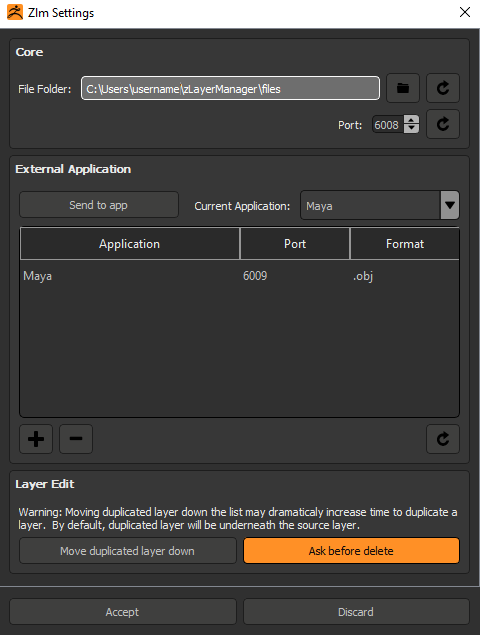
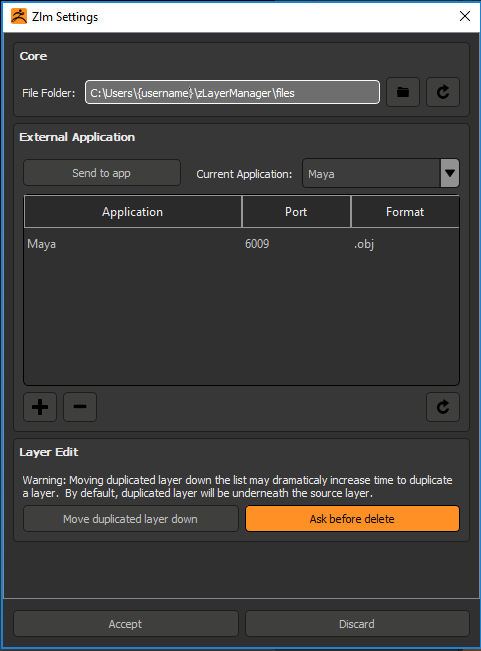
layer display doc

diff --git a/docs/searchindex.js b/docs/searchindex.js
@@ -1,1 +1,1 @@
-Search.setIndex({docnames:["application/maya","index","installation","userguide/export","userguide/import","userguide/index","userguide/layerdisplay","userguide/preset","userguide/settings"],envversion:{"sphinx.domains.c":1,"sphinx.domains.changeset":1,"sphinx.domains.citation":1,"sphinx.domains.cpp":1,"sphinx.domains.javascript":1,"sphinx.domains.math":2,"sphinx.domains.python":1,"sphinx.domains.rst":1,"sphinx.domains.std":1,sphinx:56},filenames:["application\\maya.rst","index.rst","installation.rst","userguide\\export.rst","userguide\\import.rst","userguide\\index.rst","userguide\\layerdisplay.rst","userguide\\preset.rst","userguide\\settings.rst"],objects:{},objnames:{},objtypes:{},terms:{"2018zstartupzplugs64":[],"default":[7,8],"export":[0,1,2,5,8],"import":[0,1,2,5,7,8],"new":[2,7,8],The:[0,5,8],There:7,Will:8,aapplic:[],abl:5,accept:8,access:5,action:2,activ:[1,7],actual:7,add:[0,7,8],addit:7,advanc:2,aid:1,all:[1,7,8],alreadi:2,also:1,although:1,app:[0,8],append:0,appli:7,applic:[0,1,5],ask:8,automatical:8,avail:[1,2,7],base:8,basic:1,befor:[2,8],bellow:0,between:[0,2,8],blendshap:[1,2],blenshap:7,bottom:[2,5],bridg:[1,2,8],brows:2,build:2,button:[5,7],can:[0,1,2,7],chang:8,choic:2,click:2,close:2,code:[0,1],com:1,command:[0,8],commun:[0,8],configur:[7,8],construct:[],content:2,copi:0,core:[1,5],corner:5,correctli:7,could:1,count:8,creat:[0,7],current:[2,7,8],custom:[],custom_:[],customapplication_:[],defin:[],deform:7,delet:[2,8],develop:2,differ:5,directori:0,displai:[1,5],document:0,documentsmayascript:[],doing:1,donat:1,down:[7,8],download:1,dozen:1,dramaticali:[],drastic:8,drop:7,duplic:[1,8],easier:1,edit:[0,1,5,7],element:5,email:1,encourag:1,etc:1,execut:0,exist:0,extern:[1,5],extract:2,facial:[1,7],facilit:2,faster:[],favorit:2,file:[0,2,7,8],filespixologiczbrush:[],find:0,first:7,folder:[0,2,7,8],follow:2,format:8,free:1,from:[0,2,5,8],gear:5,getenv:0,github:[1,2],gmail:1,going:5,guid:1,has:8,have:[0,2,7],here:[0,2],how:2,howev:2,increas:8,inform:5,instal:[0,1],interfac:1,issu:1,keep:1,lastli:7,later:7,latest:2,layer:[1,5,7],like:2,list:[7,8],load:2,locat:[0,7],mai:8,make:[1,2],manag:[],mark:5,maya:[1,2],maya_app_dir:0,mel:0,menu:2,merg:1,mesh:[0,2],might:0,more:2,most:7,move:8,multipl:[1,7],must:2,name:[7,8],navig:2,need:[0,7],note:2,now:[0,2],off:7,onc:2,one:[0,5],onli:[2,7],open:[0,1,2,5],open_port:0,oper:[1,8],other:[1,2,7,8],otherwis:[2,8],over:1,overrid:7,own:2,packag:2,page:[1,5],palett:2,path:0,pixolog:[0,2],plug:7,plugin:2,port:[0,8],posit:8,possibl:2,prefer:8,preset:[1,5],previou:[],previous:2,probabl:7,process:2,program:[0,2],project:[1,2],prompt:8,put:[0,7],question:5,quickli:2,quot:0,read:7,readi:2,realli:8,receiv:[0,8],recod:7,record:7,rememb:7,remov:[7,8],renam:1,replac:0,reset:8,restart:0,result:2,retriev:0,right:[2,5],row:7,rst_:[],same:[7,8],save:[7,8],scene:1,script:0,sculpt:[1,7],search:2,second:7,see:2,select:[2,8],send:[1,8],serv:1,set:[1,5,7],settign:[],setup:0,share:7,should:2,simpl:1,softwar:[2,8],someth:2,sourc:[1,2],specif:7,standalon:[1,2],startup:7,state:1,step:2,subtool:2,support:[1,2],sure:2,sys:0,test:[],them:2,thi:[0,1,5,7,8],time:[7,8],tool:[1,5,8],top:5,track:1,two:[5,7],txt:2,type:7,under:[0,7],until:8,updat:2,use:[0,1,2,8],used:[1,2,7,8],useful:7,user:[0,1,2,7,8],usernam:[0,7],usersetup:0,usual:0,valu:8,version:2,wai:[],want:[1,7,8],warn:[],warningthi:8,welcom:1,when:[7,8],where:[7,8],which:7,window:2,without:8,work:1,you:[0,1,2,5,7],your:[0,1,2],zbrush:[0,1,2,7,8],zip:2,zlayer:[],zlayermanag:[0,2,7],zlayermanagerpreset:[],zlm:[0,1,2,8],zlm_maya_app:0,zlmdata:[0,2,7],zlmdataappmaya:[],zlmdatapreset:[],zplugin:2,zplugs64:[0,2],zsc:2,zscript:2,zstartup:[0,2],zstartupzplugs64:[]},titles:["Maya","ZLayerManager","Installation","Export","Import","User Guide","Layer display","Preset","Settings"],titleterms:{"export":3,"import":4,aapplic:[],app:[],applic:[2,8],bug:1,comment:1,content:1,core:8,custom:[],defin:[],displai:6,download:2,edit:8,extern:8,guid:5,instal:2,layer:[6,8],maya:0,preset:7,report:1,set:8,test:[],user:5,zlayermanag:1}})
+Search.setIndex({docnames:["application/maya","index","installation","userguide/export","userguide/import","userguide/index","userguide/layerdisplay","userguide/preset","userguide/settings"],envversion:{"sphinx.domains.c":1,"sphinx.domains.changeset":1,"sphinx.domains.citation":1,"sphinx.domains.cpp":1,"sphinx.domains.javascript":1,"sphinx.domains.math":2,"sphinx.domains.python":1,"sphinx.domains.rst":1,"sphinx.domains.std":1,sphinx:56},filenames:["application\\maya.rst","index.rst","installation.rst","userguide\\export.rst","userguide\\import.rst","userguide\\index.rst","userguide\\layerdisplay.rst","userguide\\preset.rst","userguide\\settings.rst"],objects:{},objnames:{},objtypes:{},terms:{"2018zstartupzplugs64":[],"default":[7,8],"export":[0,1,2,5,8],"import":[0,1,2,5,7,8],"new":[2,7,8],The:[0,5,6,8],There:7,These:8,Will:8,aapplic:[],abl:[5,8],accept:[6,8],access:5,action:2,activ:[1,6,7],actual:7,add:[0,7,8],addit:[6,7],advanc:2,aid:1,all:[1,6,7,8],alreadi:2,also:1,although:1,ani:6,app:[0,8],append:0,appli:7,applic:[0,1,5],ask:8,automatical:8,avaibl:6,avail:[1,2,7],base:8,basic:1,befor:[2,8],bellow:0,between:[0,2,8],blendshap:[1,2],blenshap:7,bottom:[2,5],bridg:[1,2,8],brows:2,build:2,button:[5,6,7],can:[0,1,2,6,7],chang:[6,8],charact:6,choic:2,clear:6,click:[2,6],close:2,code:[0,1],com:1,command:[0,8],commun:[0,8],configur:[7,8],construct:[],content:2,context:[1,5],copi:0,core:[1,5],corner:5,correctli:7,could:1,count:8,creat:[0,7],ctrl:6,current:[2,6,7,8],cursor:6,custom:[],custom_:[],customapplication_:[],deactiv:6,defin:[],deform:7,delet:[2,8],develop:2,dialog:6,differ:5,directori:0,displai:[1,5],document:0,documentsmayascript:[],doing:1,donat:1,down:[6,7,8],download:1,dozen:1,drag:6,dramaticali:[],drastic:8,drop:7,duplic:[1,6,8],easier:1,edit:[0,1,5,7],element:5,email:1,encourag:1,etc:1,execut:0,exist:0,explanatori:6,extern:[1,5],extract:2,eye:6,facial:[1,7],facilit:2,fanci:6,faster:[],favorit:2,file:[0,2,6,7,8],filespixologiczbrush:[],filter:6,find:0,first:7,fix:6,folder:[0,2,7,8],follow:2,format:8,free:1,from:[0,2,5,8],funnel:6,gear:5,getenv:0,github:[1,2],gmail:1,going:5,guid:1,has:[6,8],have:[0,2,6,7],here:[0,2],hot:[1,5],how:2,howev:2,increas:8,inform:5,instal:[0,1],intens:6,interfac:1,invers:6,issu:1,keep:1,kei:[1,5],lastli:7,later:7,latest:2,layer:[1,5,7],like:2,list:[7,8],load:2,locat:[0,7],mai:8,make:[1,2],manag:[],mark:5,maximum:6,maya:[1,2],maya_app_dir:0,mel:0,menu:[1,2,5],merg:1,mesh:[0,2],might:[0,6],mode:6,more:[2,6],most:[6,7],mous:6,move:8,multipl:[1,6,7],must:[2,8],name:[6,8],navig:2,need:[0,7],note:[],now:[0,2],off:[],onc:2,one:[0,5,6],onli:[2,6,7],open:[0,1,2,5,6],open_port:0,oper:[1,6,8],option:6,other:[1,2,6,7,8],otherwis:[2,6,8],over:1,overrid:7,own:2,packag:2,page:[1,5],palett:2,path:0,pixolog:[0,2],place:6,plug:7,plugin:2,port:[0,8],posibl:6,posit:8,possibl:2,prefer:8,preset:[1,5],pretti:6,previou:[],previous:2,probabl:7,process:2,program:[0,2],project:[1,2],prompt:8,put:[0,7],question:5,quickli:2,quot:0,read:7,readi:2,realli:8,rec:6,receiv:[0,8],recod:7,record:[6,7],rememb:7,remov:[6,7,8],renam:[1,5],replac:0,reset:8,rest:6,restart:0,result:[2,6],retriev:0,right:[2,5,6],row:7,rst_:[],same:[6,7,8],save:[7,8],scene:1,script:0,sculpt:[1,7],search:2,second:7,see:2,select:[2,6,8],self:6,send:[1,8],serv:1,set:[1,5,7],settign:[],setup:0,share:7,should:2,show:7,simpl:1,slider:6,softwar:[2,6,8],someth:2,sourc:[1,2],specif:7,standalon:[1,2],startup:7,state:1,step:2,strip:6,subtool:2,support:[1,2],sure:2,sys:0,take:6,test:[],them:2,thi:[0,1,5,6,7,8],time:[6,7,8],tool:[1,5,8],top:5,track:1,two:[5,6,7],txt:2,type:7,under:[0,6,7],until:8,updat:2,use:[0,1,2,8],used:[1,2,6,7,8],useful:7,user:[0,1,2,6,7,8],usernam:[0,7],usersetup:0,usual:0,valu:8,version:2,view:6,wai:[],want:[1,7,8],warn:[],warninglay:6,warningthi:8,warningy:2,welcom:1,when:[6,7,8],where:[6,7,8],which:7,window:[2,6],without:8,work:1,you:[0,1,2,5,7],your:[0,1,2],zbrush:[0,1,2,6,7,8],zip:2,zlayer:[],zlayermanag:[0,2,7],zlayermanagerpreset:[],zlm:[0,1,2,8],zlm_maya_app:0,zlmdata:[0,2,7],zlmdataappmaya:[],zlmdatapreset:[],zplugin:2,zplugs64:[0,2],zsc:2,zscript:2,zstartup:[0,2],zstartupzplugs64:[]},titles:["Maya","ZLayerManager","Installation","Export","Import","User Guide","Layer display","Preset","Settings"],titleterms:{"export":3,"import":4,aapplic:[],app:[],applic:[2,8],bug:1,comment:1,content:1,context:6,core:8,custom:[],defin:[],displai:6,download:2,edit:[6,8],extern:8,guid:5,hot:6,instal:2,kei:6,layer:[6,8],maya:0,menu:6,preset:7,renam:6,report:1,set:8,test:[],user:5,zlayermanag:1}})

diff --git a/docs/userguide/settings.html b/docs/userguide/settings.html
@@ -98,7 +98,12 @@
 </ul>
 </li>
 <li class="toctree-l2"><a class="reference internal" href="preset.html">Preset</a></li>
-<li class="toctree-l2"><a class="reference internal" href="layerdisplay.html">Layer display</a></li>
+<li class="toctree-l2"><a class="reference internal" href="layerdisplay.html">Layer display</a><ul>
+<li class="toctree-l3"><a class="reference internal" href="layerdisplay.html#edition-context-menu">Edition context menu</a></li>
+<li class="toctree-l3"><a class="reference internal" href="layerdisplay.html#rename">Rename</a></li>
+<li class="toctree-l3"><a class="reference internal" href="layerdisplay.html#hot-keys">Hot Keys</a></li>
+</ul>
+</li>
 <li class="toctree-l2"><a class="reference internal" href="export.html">Export</a></li>
 <li class="toctree-l2"><a class="reference internal" href="import.html">Import</a></li>
 </ul>
@@ -171,17 +176,17 @@
 <h1>Settings<a class="headerlink" href="#settings" title="Permalink to this headline">¶</a></h1>
 <p>This is the UI where the user will edit all the settings for the tool.  The edited settings are not saved until the users
 <strong>Accept</strong> the change.</p>
-<a class="align-right reference internal image-reference" href="../_images/zlm_settings.png"><img alt="../_images/zlm_settings.png" class="align-right" src="../_images/zlm_settings.png" style="width: 312.0px; height: 412.75px;" /></a>
+<a class="align-right reference internal image-reference" href="../_images/zlm_settings.png"><img alt="../_images/zlm_settings.png" class="align-right" src="../_images/zlm_settings.png" style="width: 312.65000000000003px; height: 423.15000000000003px;" /></a>
 <div class="section" id="core">
 <h2>Core<a class="headerlink" href="#core" title="Permalink to this headline">¶</a></h2>
-<p><strong>File Folder</strong> Where file will be exported.</p>
+<p><strong>File Folder:</strong> Where files will be exported.</p>
 </div>
 <div class="section" id="external-application">
 <h2>External Application<a class="headerlink" href="#external-application" title="Permalink to this headline">¶</a></h2>
-<p>This is the settings to configure to use ZLm has a bridge between Zbrush and other 3D softwares.</p>
-<p><strong>Send to app</strong> Will automaticale import the layer export from ZBrush in the <em>Current Application</em></p>
-<p><strong>Current Application</strong>: Select the current application to communicate with.</p>
-<p><strong>Application list</strong>: Application Name, communication port (same port has used in application
+<p>These settings must be configured to be able to use ZLm has a bridge between Zbrush and other 3D softwares.</p>
+<p><strong>Send to app:</strong> Will automaticale import the layer export from ZBrush in the <em>Current Application</em></p>
+<p><strong>Current Application:</strong> Select the current application to communicate with.</p>
+<p><strong>Application list:</strong> Application Name, communication port (same port has used in application
 to receive command), preferred file format for export/import.</p>
 <ul class="simple">
 <li><p><strong>+</strong> Add setting for a new application.</p></li>
@@ -191,12 +196,12 @@ to receive command), preferred file format for export/import.</p>
 </div>
 <div class="section" id="layer-edit">
 <h2>Layer edit<a class="headerlink" href="#layer-edit" title="Permalink to this headline">¶</a></h2>
-<p><strong>Move duplicated layer down</strong> Will move the new layer down the layer list when the user duplicate a layer.</p>
+<p><strong>Move duplicated layer down:</strong> Will move the new layer down the layer list when the user duplicate a layer.</p>
 <div style="padding: 15px; margin-left:40px; margin-bottom: 30px; background-color: rgb(255, 253, 209);
 border: 5px groove black; border-radius: 10px;">
 <h3>Warning</h3>This operation may drastically increase the operation time based on the layer count and
 the position of the layer in the list
-</div><p><strong>Ask before delete</strong> The user will be prompt if he really want to delete the layer(s).  Otherwise, delete the layer(s)
+</div><p><strong>Ask before delete:</strong> The user will be prompt if he really want to delete the layer(s).  Otherwise, delete the layer(s)
 without asking.</p>
 </div>
 </div>

diff --git a/docs/userguide/layerdisplay.html b/docs/userguide/layerdisplay.html
@@ -98,7 +98,12 @@
 </ul>
 </li>
 <li class="toctree-l2"><a class="reference internal" href="preset.html">Preset</a></li>
-<li class="toctree-l2 current"><a class="current reference internal" href="#">Layer display</a></li>
+<li class="toctree-l2 current"><a class="current reference internal" href="#">Layer display</a><ul>
+<li class="toctree-l3"><a class="reference internal" href="#edition-context-menu">Edition context menu</a></li>
+<li class="toctree-l3"><a class="reference internal" href="#rename">Rename</a></li>
+<li class="toctree-l3"><a class="reference internal" href="#hot-keys">Hot Keys</a></li>
+</ul>
+</li>
 <li class="toctree-l2"><a class="reference internal" href="export.html">Export</a></li>
 <li class="toctree-l2"><a class="reference internal" href="import.html">Import</a></li>
 </ul>
@@ -169,6 +174,41 @@
             
   <div class="section" id="layer-display">
 <h1>Layer display<a class="headerlink" href="#layer-display" title="Permalink to this headline">¶</a></h1>
+<p>This is where the layers are displayed and this is where most of the layer edition operation take place.</p>
+<ul class="simple">
+<li><p><strong>Activate/deactive</strong> a layer by clicking on the <strong>eye</strong> button.</p></li>
+<li><p><strong>Record</strong> as layer by clicking on the <strong>REC</strong> button</p></li>
+<li><p><strong>Change intensity</strong> by dragging the slider</p></li>
+</ul>
+<p>The user can filter layers by name or by mode (Deactivated, Activated, Recording) with the <strong>funnel</strong> button.</p>
+<div class="section" id="edition-context-menu">
+<h2>Edition context menu<a class="headerlink" href="#edition-context-menu" title="Permalink to this headline">¶</a></h2>
+<a class="align-right reference internal image-reference" href="../_images/contextmenu.png"><img alt="../_images/contextmenu.png" class="align-right" src="../_images/contextmenu.png" style="width: 260.8px; height: 288.0px;" /></a>
+<p>Right clicking in the view open menu with additional operation:</p>
+<ul class="simple">
+<li><p><strong>Rename layer</strong> rename the selected layer if there is only one selected otherwise rename the layer under the mouse cursor.</p></li>
+<li><p><strong>Rename selected layers</strong> Open <a class="reference internal" href="#rename">Rename</a> dialog.</p></li>
+<li><p><strong>Fix up layers name</strong> This option will remove any layer name duplicates and remove any fancy characters (&amp;*-%^) that can be used in Zbrush when naming the layer but that is not accepted in other software or for a file name.</p></li>
+</ul>
+<p><em>The rest of the operations are pretty self explanatory</em></p>
+</div>
+<div class="section" id="rename">
+<h2>Rename<a class="headerlink" href="#rename" title="Permalink to this headline">¶</a></h2>
+<img alt="../_images/rename.png" class="align-right" src="../_images/rename.png" />
+<p>User has the posibility to rename multiple layer at the same time.  This window is avaible in the <a class="reference internal" href="#edition-context-menu">Edition context menu</a> when the user have
+two or more layers selected.</p>
+<div style="padding: 15px; margin-left:40px; margin-bottom: 30px; background-color: rgb(255, 253, 209);
+border: 5px groove black; border-radius: 10px; display: inline-block;">
+<h3>Warning</h3>Layer can only have a maximum of 15 characters so the resulting name might be stripped down.
+</div></div>
+<div class="section" id="hot-keys">
+<h2>Hot Keys<a class="headerlink" href="#hot-keys" title="Permalink to this headline">¶</a></h2>
+<ul class="simple">
+<li><p><strong>Ctrl+A</strong> Select all layers currently displayed.</p></li>
+<li><p><strong>Ctrl+I</strong> Inverse selection</p></li>
+<li><p><strong>Ctrl+X</strong> Clear selection</p></li>
+</ul>
+</div>
 </div>
 
 

diff --git a/docs/userguide/preset.html b/docs/userguide/preset.html
@@ -98,7 +98,12 @@
 </ul>
 </li>
 <li class="toctree-l2 current"><a class="current reference internal" href="#">Preset</a></li>
-<li class="toctree-l2"><a class="reference internal" href="layerdisplay.html">Layer display</a></li>
+<li class="toctree-l2"><a class="reference internal" href="layerdisplay.html">Layer display</a><ul>
+<li class="toctree-l3"><a class="reference internal" href="layerdisplay.html#edition-context-menu">Edition context menu</a></li>
+<li class="toctree-l3"><a class="reference internal" href="layerdisplay.html#rename">Rename</a></li>
+<li class="toctree-l3"><a class="reference internal" href="layerdisplay.html#hot-keys">Hot Keys</a></li>
+</ul>
+</li>
 <li class="toctree-l2"><a class="reference internal" href="export.html">Export</a></li>
 <li class="toctree-l2"><a class="reference internal" href="import.html">Import</a></li>
 </ul>
@@ -174,17 +179,17 @@
 activated deform correctly.</p>
 <p>There are two type of layer preset:</p>
 <ul class="simple">
-<li><p><strong>Read-only</strong>: Located in <em>ZlmData\presets</em> under the Zbrush startup plug folder, this type of presets can’t be edited by the user.  This is probably where you want to put a presets file that you want to share with other users.</p></li>
+<li><p><strong>Read-only</strong>: Located in <em>ZlmData\presets</em> under the Zbrush startup plug folder, this type of preset can’t be edited by the user.  This is probably where you want to put a preset file that you want to share with other users.</p></li>
 <li><p><strong>Editable</strong>: Located in <em>C:\Users\{username}\zLayerManager\presets</em>.  This is the default preset type and this is where the preset file will be saved when you create a new preset.</p></li>
 </ul>
-<p>In the first row, there is a drop down list that list all the available preset file, a <strong>+</strong> button to create and a <strong>-</strong> to remove a
+<p>In the first row, there is a drop down list that show all the available preset file, a <strong>+</strong> button to create and a <strong>-</strong> to remove a
 preset file.</p>
 <p>In second row:</p>
 <ul class="simple">
-<li><p>A list of off the available preset name</p></li>
-<li><p>Save button, this will override the current preset with the actual layer configuration (it will remember which layer is activated and recoding so you can apply this preset later).</p></li>
-<li><p>Add button, this will create a new preset with the actual layer configuration.</p></li>
-<li><p>Remove button, this will remove the current preset.</p></li>
+<li><p>List of available presets</p></li>
+<li><p><strong>Save button:</strong> this will override the current preset with the actual layer configuration (it will remember which layer is activated and recoding so you can apply this preset later).</p></li>
+<li><p><strong>Add button:</strong> this will create a new preset with the actual layer configuration.</p></li>
+<li><p><strong>Remove button:</strong> this will remove the current preset.</p></li>
 </ul>
 <p>Lastly, there is the most important of all the <strong>activate</strong> button to activate the current preset.</p>
 </div>

diff --git a/docs/installation.html b/docs/installation.html
@@ -98,7 +98,12 @@
 </ul>
 </li>
 <li class="toctree-l2"><a class="reference internal" href="userguide/preset.html">Preset</a></li>
-<li class="toctree-l2"><a class="reference internal" href="userguide/layerdisplay.html">Layer display</a></li>
+<li class="toctree-l2"><a class="reference internal" href="userguide/layerdisplay.html">Layer display</a><ul>
+<li class="toctree-l3"><a class="reference internal" href="userguide/layerdisplay.html#edition-context-menu">Edition context menu</a></li>
+<li class="toctree-l3"><a class="reference internal" href="userguide/layerdisplay.html#rename">Rename</a></li>
+<li class="toctree-l3"><a class="reference internal" href="userguide/layerdisplay.html#hot-keys">Hot Keys</a></li>
+</ul>
+</li>
 <li class="toctree-l2"><a class="reference internal" href="userguide/export.html">Export</a></li>
 <li class="toctree-l2"><a class="reference internal" href="userguide/import.html">Import</a></li>
 </ul>
@@ -184,7 +189,7 @@ to step 3.</p>
 <blockquote>
 <div><ol class="arabic">
 <li><p>Close Zbrush</p></li>
-<li><p>Search of these files and delete them</p>
+<li><p>Search for these files and delete them</p>
 <blockquote>
 <div><ul class="simple">
 <li><p>ZlmData</p></li>
@@ -203,8 +208,11 @@ to step 3.</p>
 <li><p>You should now see the <cite>zLayerManager</cite> menu at the bottom of the <cite>Zplugin</cite> palette.</p></li>
 <li><p>ZLayerManager is now ready to use !</p></li>
 </ol>
-<p>Click on <cite>open</cite> to open the standalone UI. <em>Note: You must have a subtool selected to open the UI</em></p>
-</div>
+<p>Click on <cite>open</cite> to open the standalone UI.</p>
+<div style="padding: 15px; margin-left:40px; margin-bottom: 30px; background-color: rgb(255, 253, 209);
+border: 5px groove black; border-radius: 10px;">
+<h3>Warning</h3>You must have a subtool selected to open the UI
+</div></div>
 <div class="section" id="application">
 <h2>Application<a class="headerlink" href="#application" title="Permalink to this headline">¶</a></h2>
 <p>ZLayerManager can be use as a bridge between ZBrush and other application.  It facilitate the process of exporting and importing mesh

diff --git a/docs/index.html b/docs/index.html
@@ -97,7 +97,12 @@
 </ul>
 </li>
 <li class="toctree-l2"><a class="reference internal" href="userguide/preset.html">Preset</a></li>
-<li class="toctree-l2"><a class="reference internal" href="userguide/layerdisplay.html">Layer display</a></li>
+<li class="toctree-l2"><a class="reference internal" href="userguide/layerdisplay.html">Layer display</a><ul>
+<li class="toctree-l3"><a class="reference internal" href="userguide/layerdisplay.html#edition-context-menu">Edition context menu</a></li>
+<li class="toctree-l3"><a class="reference internal" href="userguide/layerdisplay.html#rename">Rename</a></li>
+<li class="toctree-l3"><a class="reference internal" href="userguide/layerdisplay.html#hot-keys">Hot Keys</a></li>
+</ul>
+</li>
 <li class="toctree-l2"><a class="reference internal" href="userguide/export.html">Export</a></li>
 <li class="toctree-l2"><a class="reference internal" href="userguide/import.html">Import</a></li>
 </ul>
@@ -201,7 +206,12 @@ as a bridge with other application.</p>
 </ul>
 </li>
 <li class="toctree-l2"><a class="reference internal" href="userguide/preset.html">Preset</a></li>
-<li class="toctree-l2"><a class="reference internal" href="userguide/layerdisplay.html">Layer display</a></li>
+<li class="toctree-l2"><a class="reference internal" href="userguide/layerdisplay.html">Layer display</a><ul>
+<li class="toctree-l3"><a class="reference internal" href="userguide/layerdisplay.html#edition-context-menu">Edition context menu</a></li>
+<li class="toctree-l3"><a class="reference internal" href="userguide/layerdisplay.html#rename">Rename</a></li>
+<li class="toctree-l3"><a class="reference internal" href="userguide/layerdisplay.html#hot-keys">Hot Keys</a></li>
+</ul>
+</li>
 <li class="toctree-l2"><a class="reference internal" href="userguide/export.html">Export</a></li>
 <li class="toctree-l2"><a class="reference internal" href="userguide/import.html">Import</a></li>
 </ul>

diff --git a/docs/userguide/index.html b/docs/userguide/index.html
@@ -98,7 +98,12 @@
 </ul>
 </li>
 <li class="toctree-l2"><a class="reference internal" href="preset.html">Preset</a></li>
-<li class="toctree-l2"><a class="reference internal" href="layerdisplay.html">Layer display</a></li>
+<li class="toctree-l2"><a class="reference internal" href="layerdisplay.html">Layer display</a><ul>
+<li class="toctree-l3"><a class="reference internal" href="layerdisplay.html#edition-context-menu">Edition context menu</a></li>
+<li class="toctree-l3"><a class="reference internal" href="layerdisplay.html#rename">Rename</a></li>
+<li class="toctree-l3"><a class="reference internal" href="layerdisplay.html#hot-keys">Hot Keys</a></li>
+</ul>
+</li>
 <li class="toctree-l2"><a class="reference internal" href="export.html">Export</a></li>
 <li class="toctree-l2"><a class="reference internal" href="import.html">Import</a></li>
 </ul>
@@ -179,7 +184,12 @@
 </ul>
 </li>
 <li class="toctree-l1"><a class="reference internal" href="preset.html">Preset</a></li>
-<li class="toctree-l1"><a class="reference internal" href="layerdisplay.html">Layer display</a></li>
+<li class="toctree-l1"><a class="reference internal" href="layerdisplay.html">Layer display</a><ul>
+<li class="toctree-l2"><a class="reference internal" href="layerdisplay.html#edition-context-menu">Edition context menu</a></li>
+<li class="toctree-l2"><a class="reference internal" href="layerdisplay.html#rename">Rename</a></li>
+<li class="toctree-l2"><a class="reference internal" href="layerdisplay.html#hot-keys">Hot Keys</a></li>
+</ul>
+</li>
 <li class="toctree-l1"><a class="reference internal" href="export.html">Export</a></li>
 <li class="toctree-l1"><a class="reference internal" href="import.html">Import</a></li>
 </ul>

diff --git a/docs/genindex.html b/docs/genindex.html
@@ -97,7 +97,12 @@
 </ul>
 </li>
 <li class="toctree-l2"><a class="reference internal" href="userguide/preset.html">Preset</a></li>
-<li class="toctree-l2"><a class="reference internal" href="userguide/layerdisplay.html">Layer display</a></li>
+<li class="toctree-l2"><a class="reference internal" href="userguide/layerdisplay.html">Layer display</a><ul>
+<li class="toctree-l3"><a class="reference internal" href="userguide/layerdisplay.html#edition-context-menu">Edition context menu</a></li>
+<li class="toctree-l3"><a class="reference internal" href="userguide/layerdisplay.html#rename">Rename</a></li>
+<li class="toctree-l3"><a class="reference internal" href="userguide/layerdisplay.html#hot-keys">Hot Keys</a></li>
+</ul>
+</li>
 <li class="toctree-l2"><a class="reference internal" href="userguide/export.html">Export</a></li>
 <li class="toctree-l2"><a class="reference internal" href="userguide/import.html">Import</a></li>
 </ul>

diff --git a/docs/search.html b/docs/search.html
@@ -97,7 +97,12 @@
 </ul>
 </li>
 <li class="toctree-l2"><a class="reference internal" href="userguide/preset.html">Preset</a></li>
-<li class="toctree-l2"><a class="reference internal" href="userguide/layerdisplay.html">Layer display</a></li>
+<li class="toctree-l2"><a class="reference internal" href="userguide/layerdisplay.html">Layer display</a><ul>
+<li class="toctree-l3"><a class="reference internal" href="userguide/layerdisplay.html#edition-context-menu">Edition context menu</a></li>
+<li class="toctree-l3"><a class="reference internal" href="userguide/layerdisplay.html#rename">Rename</a></li>
+<li class="toctree-l3"><a class="reference internal" href="userguide/layerdisplay.html#hot-keys">Hot Keys</a></li>
+</ul>
+</li>
 <li class="toctree-l2"><a class="reference internal" href="userguide/export.html">Export</a></li>
 <li class="toctree-l2"><a class="reference internal" href="userguide/import.html">Import</a></li>
 </ul>

diff --git a/doc_src/userguide/layerdisplay.rst b/doc_src/userguide/layerdisplay.rst
@@ -1,3 +1,51 @@
 Layer display
 =============
 
+This is where the layers are displayed and this is where most of the layer edition operation take place.
+
+* **Activate/deactive** a layer by clicking on the **eye** button.
+* **Record** as layer by clicking on the **REC** button
+* **Change intensity** by dragging the slider
+
+The user can filter layers by name or by mode (Deactivated, Activated, Recording) with the **funnel** button.
+
+
+Edition context menu
+--------------------
+
+.. image:: ../_static/contextmenu.png
+   :class: align-right
+   :scale: 80 %
+
+Right clicking in the view open menu with additional operation:
+
+* **Rename layer** rename the selected layer if there is only one selected otherwise rename the layer under the mouse cursor.
+* **Rename selected layers** Open `Rename`_ dialog.
+* **Fix up layers name** This option will remove any layer name duplicates and remove any fancy characters (&*-%^) that can be used in Zbrush when naming the layer but that is not accepted in other software or for a file name. 
+
+*The rest of the operations are pretty self explanatory* 
+
+
+Rename
+------
+
+.. image:: ../_static/rename.png
+    :class: align-right
+
+User has the posibility to rename multiple layer at the same time.  This window is avaible in the `Edition context menu`_ when the user have
+two or more layers selected.
+
+.. raw:: html
+
+    <div style="padding: 15px; margin-left:40px; margin-bottom: 30px; background-color: rgb(255, 253, 209);
+    border: 5px groove black; border-radius: 10px; display: inline-block;">
+    <h3>Warning</h3>Layer can only have a maximum of <b>15 characters</b> so the resulting name might be stripped down.
+    </div>
+
+
+Hot Keys
+--------
+
+* **Ctrl+A** Select all layers currently displayed.
+* **Ctrl+I** Inverse selection
+* **Ctrl+X** Clear selection

diff --git a/doc_src/userguide/settings.rst b/doc_src/userguide/settings.rst
@@ -11,19 +11,19 @@ This is the UI where the user will edit all the settings for the tool.  The edit
 Core
 ----
 
-**File Folder** Where file will be exported.
+**File Folder:** Where files will be exported.
 
 
 External Application
 --------------------
 
-This is the settings to configure to use ZLm has a bridge between Zbrush and other 3D softwares.
+These settings must be configured to be able to use ZLm has a bridge between Zbrush and other 3D softwares.
 
-**Send to app** Will automaticale import the layer export from ZBrush in the *Current Application*
+**Send to app:** Will automaticale import the layer export from ZBrush in the *Current Application*
 
-**Current Application**: Select the current application to communicate with.
+**Current Application:** Select the current application to communicate with.
 
-**Application list**: Application Name, communication port (same port has used in application
+**Application list:** Application Name, communication port (same port has used in application
 to receive command), preferred file format for export/import.
 
 * **+** Add setting for a new application.

diff --git a/doc_src/userguide/preset.rst b/doc_src/userguide/preset.rst
@@ -8,11 +8,11 @@ activated deform correctly.
 
 There are two type of layer preset:
 
-* **Read-only**: Located in *ZlmData\\presets* under the Zbrush startup plug folder, this type of presets can't be edited by the user.  This is probably where you want to put a presets file that you want to share with other users.
+* **Read-only**: Located in *ZlmData\\presets* under the Zbrush startup plug folder, this type of preset can't be edited by the user.  This is probably where you want to put a preset file that you want to share with other users.
 
 * **Editable**: Located in *C:\\Users\\{username}\\zLayerManager\\presets*.  This is the default preset type and this is where the preset file will be saved when you create a new preset.
 
-In the first row, there is a drop down list that list all the available preset file, a **+** button to create and a **-** to remove a
+In the first row, there is a drop down list that show all the available preset file, a **+** button to create and a **-** to remove a
 preset file.
 
 In second row:
